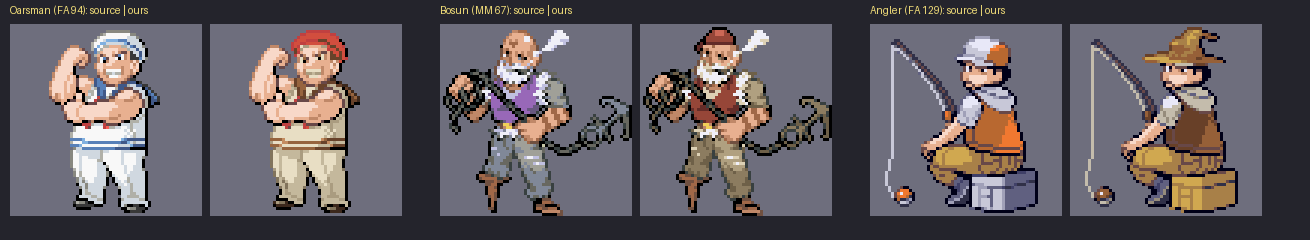
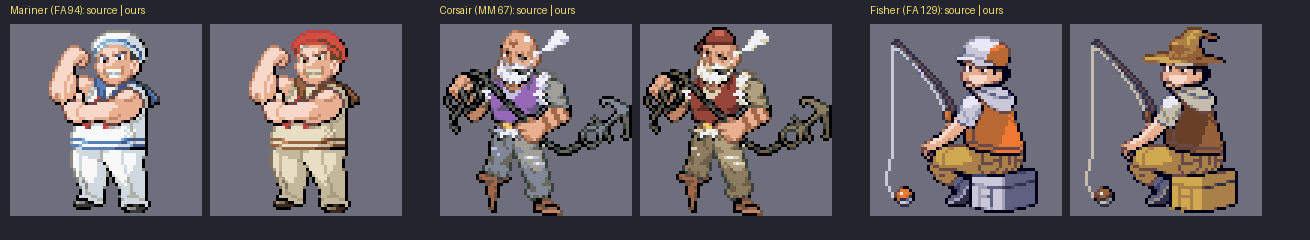
Male Templar in the game; seafolk named Mariner, Corsair, Fisher
The male Templar front and overworld added (gfx 289, pal tag 0x1133, pic
136, Templar class), checked from the ROM and in the emulator on a test
ROM. Notes two build gotchas: maps.o after a NUM_OBJ_EVENT_GFX change, and
new INCBIN graphics linked missing without an error.

Claude-Session: https://claude.ai/code/session_01FHXnfqnedTHLf5QFbB3MCU

Changed region(s): [[0.6412, 0.0292, 0.7634, 0.0583], [0.3359, 0.0292, 0.458, 0.0583], [0.0, 0.0292, 0.1221, 0.0583]]

diff --git a/tools/npc/picks/recolour.py b/tools/npc/picks/recolour.py
@@ -51,13 +51,13 @@ EDITS = {
         12: (80, 40, 80)}),
     'FA_0': ('Adventurer', 'the vest and hose red, the sleeves beige linen, the boots dark brown leather, the neckerchief beige; the feather red', {
         5: (200, 76, 64), 6: (150, 50, 46), 9: (236, 222, 190), 10: (196, 176, 140), 11: (96, 64, 40), 4: (64, 44, 30)}),
-    'FA_94': ('Oarsman', 'a red knitted cap, a linen shirt and slops, the sailor collar a leather jerkin\'s neck and shoulder, the shirt\'s bands a leather belt, the red neckerchief kept', {
+    'FA_94': ('Mariner', 'a red knitted cap, a linen shirt and slops, the sailor collar a leather jerkin\'s neck and shoulder, the shirt\'s bands a leather belt, the red neckerchief kept', {
         14: (232, 222, 196), 9: (196, 184, 156), 5: (170, 156, 128), 10: (130, 116, 92), 11: (196, 140, 96),
         6: (150, 100, 62), 7: (104, 66, 42), 8: (60, 40, 28), 12: (210, 78, 62)}),
-    'MM_67': ('Bosun', 'an oxblood leather vest and a knotted headscarf to match, weathered sailcloth shirt and trousers; the iron chain, anchor, peg leg and pipe kept', {
+    'MM_67': ('Corsair', 'an oxblood leather vest and a knotted headscarf to match, weathered sailcloth shirt and trousers; the iron chain, anchor, peg leg and pipe kept', {
         8: (150, 70, 56), 14: (100, 44, 40), 9: (220, 208, 180), 4: (206, 192, 160), 7: (176, 160, 128),
         2: (140, 124, 96), 3: (110, 96, 72), 4: (204, 104, 86)}),
-    'FA_129': ('Angler', 'a tan felt cap with a leather brim, a leather jerkin, a hood of undyed wool, a wooden crate for a seat', {
+    'FA_129': ('Fisher', 'a tan felt cap with a leather brim, a leather jerkin, a hood of undyed wool, a wooden crate for a seat', {
         12: (150, 96, 56), 13: (104, 64, 40), 9: (196, 188, 172), 10: (150, 140, 124)}),
     'FA_196': ('Revenant', 'a ghost of Hollow Hill: spectral blue; a skull face, rotted hair, the coat in rags', {
         1: (196, 232, 238), 2: (156, 204, 218), 3: (124, 178, 198), 4: (96, 150, 174), 5: (72, 112, 140),
@@ -188,7 +188,7 @@ def remap(idx, box, mapping):
 
 
 def angler_hat(idx):
-    """The Angler's pointed hat (user 2026-11-25: "The fisherman just needs more of a pointed style witch hat"): the
+    """The Fisher's pointed hat (user 2026-11-25: "The fisherman just needs more of a pointed style witch hat"): the
     hat of Fantasma 14 (the witch; her head is his width), its crown shortened by four rows from its straight middle
     (rows 8-11) so its crooked tip stays in the frame, set five pixels right on his head with its brim on his old
     cap's line (row 12); its purples onto his own tan and leather browns by brightness (a felt hat to match his
@@ -215,7 +215,7 @@ def angler_hat(idx):
 
 
 def bosun_scarf(idx):
-    """The Bosun's knotted headscarf (user 2026-11-25: "adjusted designs to make them seem more appropriate for an
+    """The Corsair's knotted headscarf (user 2026-11-25: "adjusted designs to make them seem more appropriate for an
     empire era setting"), over his bald crown (rows 1-6) in the vest's oxblood (slots 8, 14, its light and dark), a
     highlight in slot 4 (its one pixel merged into 9, a near twin), outlined in black (6), the knot and two short
     tails at the back of his head (left). His brows, beard and pipe smoke (from x 34) untouched."""
@@ -242,7 +242,7 @@ def bosun_scarf(idx):
 def sea_redress(name, idx):
     """The three seafolk (user 2026-11-25: "make them proper medieval era clothed"; new, less modern names)."""
     idx = idx.copy()
-    if name == 'FA_94':      # the Oarsman: the sailor cap (and its ribbon tails behind his head) a red knitted cap
+    if name == 'FA_94':      # the Mariner: the sailor cap (and its ribbon tails behind his head) a red knitted cap
         SKIN = (1, 2, 3, 4, 15)
         cap = [(x, y) for y in range(2, 7) for x in range(26, 47)]
         cap += [(x, y) for y in range(7, 14) for x in range(39, 47)]
@@ -251,7 +251,7 @@ def sea_redress(name, idx):
             v = idx[y, x]
             if v and v not in SKIN:
                 idx[y, x] = {14: 12, 9: 12, 5: 13, 10: 13, 11: 13}.get(int(v), 7)
-    if name == 'FA_129':     # the Angler: a pointed hat; the cooler (from row 44, right) a wooden crate
+    if name == 'FA_129':     # the Fisher: a pointed hat; the cooler (from row 44, right) a wooden crate
         idx = angler_hat(idx)
         remap(idx, (33, 44, 63, 63), {14: 7, 9: 7, 10: 8, 6: 8, 5: 4})
     return idx

diff --git a/tools/playtest/templar_blue_check.py b/tools/playtest/templar_blue_check.py
@@ -1,14 +1,21 @@
 """The Templar's overworld in the Order's blue, seen in the game (2026-11-25): from Pelluca's west gate (save state
 r11/pelluca_west.state) to the north road guard at (38, 3); matches her frames on screen against the PNG.
-Usage: python3 tools/playtest/templar_blue_check.py [OUT.png]"""
+Also used for the male Templar (on a test ROM where the east road guard at (74, 25) wears OBJ_EVENT_GFX_TEMPLAR_MALE):
+  python3 tools/playtest/templar_blue_check.py OUT.png --rom TEST.gba --png people/templar_male.png --east --reload
+Usage: python3 tools/playtest/templar_blue_check.py [OUT.png] [--rom ROM] [--png people/NAME.png] [--east]"""
 import sys, gzip
 import numpy as np
 sys.path.insert(0, '/home/claude/scratch/dorm')
 from walklib import GBA, go, where
 from PIL import Image
-OUT = sys.argv[1] if len(sys.argv) > 1 else '/home/claude/scratch/templar_blue_check.png'
+args = sys.argv[1:]
+def opt(k, d):
+    return args[args.index(k) + 1] if k in args else d
+OUT = args[0] if args and not args[0].startswith('--') else '/home/claude/scratch/templar_blue_check.png'
 CB = '/home/claude/repo/codebase/'
-im = Image.open(CB + 'graphics/object_events/pics/people/templar.png')
+ROMF = opt('--rom', CB + 'pokeemerald.gba')
+im = Image.open(CB + 'graphics/object_events/pics/' + opt('--png', 'people/templar.png'))
+TARGETS = ((73, 25), (72, 25), (74, 27), (74, 26)) if '--east' in args else ((38, 6), (38, 7), (37, 6))
 IDX = np.array(im); PAL = np.array(im.getpalette()[:48]).reshape(16, 3).astype(int) // 8 * 8
 
 
@@ -26,11 +33,26 @@ def match(f):
     return best
 
 
-g = GBA(CB + 'pokeemerald.gba')
+g = GBA(ROMF)
 g.restore(gzip.decompress(open('/home/claude/scratch/r11/pelluca_west.state', 'rb').read())); g.run(20)
+def step(d, wait=16): g.run(12, d); g.run(wait)
+if '--reload' in args:
+    # the state stands inside Pelluca City, its objects already loaded: down the main stair to the harbour and back
+    # up (as the harbour walk), so the city's objects are read from this ROM
+    for _ in range(4): g.walk('RIGHT', 1); g.run(10)
+    for _ in range(4):
+        if go(g, 'PellucaCity', (38, 33), log=lambda *a: None): break
+        for _ in range(40): g.run(6, 'B'); g.run(10)
+    step('DOWN'); step('DOWN'); step('DOWN', 4); g.run(240)
+    print('down to', where(g))
+    for _ in range(4):
+        if go(g, 'PellucaHarbour', (38, 9), log=lambda *a: None): break
+        for _ in range(40): g.run(6, 'B'); g.run(10)
+    step('UP'); step('UP'); step('UP', 4); g.run(240)
+    print('back up to', where(g))
 for _ in range(4): g.walk('RIGHT', 1); g.run(10)
 ok = False
-for tgt in ((38, 6), (38, 7), (37, 6)):
+for tgt in TARGETS:
     for _ in range(4):
         if go(g, 'PellucaCity', tgt, log=lambda *a: None):
             ok = True; break
@@ -39,7 +61,7 @@ for tgt in ((38, 6), (38, 7), (37, 6)):
 g.run(30)
 f = g.frame()
 b = match(f)
-print('walked near the north road guard:', ok, where(g))
+print('walked near the road guard:', ok, where(g))
 print('Templar on screen: frame %d at (%d, %d), %d of %d pixels differ' % (b[3], b[1], b[2], b[0], b[4]))
 print('ALL OK' if ok and b[0] == 0 else 'PROBLEM')
 x, y = b[1], b[2]

diff --git a/tools/npc/templar/male/male.py b/tools/npc/templar/male/male.py
@@ -98,14 +98,35 @@ def quant15(a):
         a[sel, :3] = cols[dst]
 
 
+def to_indexed(a, path):
+    """RGBA (at most 15 opaque colours) -> a 16-colour indexed PNG, index 0 transparent (the house format)."""
+    m = a[..., 3] > 0
+    cols = [tuple(int(v) for v in c) for c in np.unique(a[m][:, :3], axis=0)]
+    assert len(cols) <= 15, len(cols)
+    cols.sort(key=lum, reverse=True)
+    idx = np.zeros(a.shape[:2], np.uint8)
+    for k, c in enumerate(cols, 1):
+        idx[m & (a[..., :3] == c).all(-1)] = k
+    pal = [(0, 0, 0)] + cols + [(0, 0, 0)] * (15 - len(cols))
+    im = Image.fromarray(idx, 'P')
+    im.putpalette([v for c in pal for v in c] + [0] * (768 - 48))
+    im.save(path, transparency=0)
+
+
 if __name__ == '__main__':
     os.makedirs(os.path.join(HERE, 'out'), exist_ok=True)
     f = np.array(Image.open(os.path.join(HERE, 'src_front.png')).convert('RGBA'))
     o = np.array(Image.open(os.path.join(HERE, 'src_ow.png')).convert('RGBA'))
     f2 = quant15(fit64(recolour_front(f)))
-    o2 = ow9(recolour_ow(o), 16, 32)
+    o2 = quant15(ow9(recolour_ow(o), 16, 32))
     Image.fromarray(f2).save(os.path.join(HERE, 'out', 'templar_male_front.png'))
     Image.fromarray(o2).save(os.path.join(HERE, 'out', 'templar_male_ow.png'))
+    CBG = os.path.abspath(os.path.join(HERE, '..', '..', '..', '..', 'codebase', 'graphics'))
+    to_indexed(f2, os.path.join(HERE, 'out', 'templar_male_front_idx.png'))
+    to_indexed(o2, os.path.join(HERE, 'out', 'templar_male_ow_idx.png'))
+    if '--install' in sys.argv:
+        to_indexed(f2, os.path.join(CBG, 'trainers', 'front_pics', 'templar_male.png'))
+        to_indexed(o2, os.path.join(CBG, 'object_events', 'pics', 'people', 'templar_male.png'))
     fem_f = Image.open(os.path.join(HERE, '..', 'out', 'templar_front.png')).convert('RGBA')
     fem_o = Image.open(os.path.join(HERE, '..', 'out', 'templar_ow.png')).convert('RGBA')
 

diff --git a/codebase/src/data/graphics/trainers.h b/codebase/src/data/graphics/trainers.h
@@ -416,6 +416,8 @@ const u32 gTrainerFrontPic_Ambrose[] = INCBIN_U32("graphics/trainers/front_pics/
 const u32 gTrainerPalette_Ambrose[] = INCBIN_U32("graphics/trainers/front_pics/ambrose.gbapal.lz");
 const u32 gTrainerFrontPic_Templar[] = INCBIN_U32("graphics/trainers/front_pics/templar.4bpp.lz");
 const u32 gTrainerPalette_Templar[] = INCBIN_U32("graphics/trainers/front_pics/templar.gbapal.lz");
+const u32 gTrainerFrontPic_TemplarMale[] = INCBIN_U32("graphics/trainers/front_pics/templar_male.4bpp.lz");
+const u32 gTrainerPalette_TemplarMale[] = INCBIN_U32("graphics/trainers/front_pics/templar_male.gbapal.lz");
 
 const u32 gTrainerFrontPic_QwilsquadBoss[] = INCBIN_U32("graphics/trainers/my_trainers/qwilsquad_boss.4bpp.lz");
 const u32 gTrainerPalette_QwilsquadBoss[] = INCBIN_U32("graphics/trainers/my_trainers/qwilsquad_boss.gbapal.lz");
@@ -613,6 +615,7 @@ const struct TrainerSprite gTrainerSprites[] =
     TRAINER_SPRITE(TRAINER_PIC_KIMARIS, gTrainerFrontPic_Kimaris, gTrainerPalette_Kimaris),
     TRAINER_SPRITE(TRAINER_PIC_AMBROSE, gTrainerFrontPic_Ambrose, gTrainerPalette_Ambrose),
     TRAINER_SPRITE(TRAINER_PIC_TEMPLAR, gTrainerFrontPic_Templar, gTrainerPalette_Templar),
+    TRAINER_SPRITE(TRAINER_PIC_TEMPLAR_MALE, gTrainerFrontPic_TemplarMale, gTrainerPalette_TemplarMale),
 };
 
 static const union AnimCmd sAnimCmd_Hoenn[] =

diff --git a/codebase/src/data/object_events/object_event_graphics_info_pointers.h b/codebase/src/data/object_events/object_event_graphics_info_pointers.h
@@ -24,6 +24,7 @@ extern const struct ObjectEventGraphicsInfo gObjectEventGraphicsInfo_Baradus;
 extern const struct ObjectEventGraphicsInfo gObjectEventGraphicsInfo_Kimaris;
 extern const struct ObjectEventGraphicsInfo gObjectEventGraphicsInfo_Ambrose;
 extern const struct ObjectEventGraphicsInfo gObjectEventGraphicsInfo_Templar;
+extern const struct ObjectEventGraphicsInfo gObjectEventGraphicsInfo_TemplarMale;
 extern const struct ObjectEventGraphicsInfo gObjectEventGraphicsInfo_DrShrine;
 extern const struct ObjectEventGraphicsInfo gObjectEventGraphicsInfo_PaleVeluza;
 extern const struct ObjectEventGraphicsInfo gObjectEventGraphicsInfo_Merchantman;
@@ -330,6 +331,7 @@ const struct ObjectEventGraphicsInfo *const gObjectEventGraphicsInfoPointers[NUM
     [OBJ_EVENT_GFX_KIMARIS] = &gObjectEventGraphicsInfo_Kimaris,
     [OBJ_EVENT_GFX_AMBROSE] = &gObjectEventGraphicsInfo_Ambrose,
     [OBJ_EVENT_GFX_TEMPLAR] = &gObjectEventGraphicsInfo_Templar,
+    [OBJ_EVENT_GFX_TEMPLAR_MALE] = &gObjectEventGraphicsInfo_TemplarMale,
     [OBJ_EVENT_GFX_DR_SHRINE] = &gObjectEventGraphicsInfo_DrShrine,
     [OBJ_EVENT_GFX_PALE_VELUZA] = &gObjectEventGraphicsInfo_PaleVeluza,
     [OBJ_EVENT_GFX_MERCHANTMAN] = &gObjectEventGraphicsInfo_Merchantman,

diff --git a/codebase/src/data/object_events/object_event_graphics.h b/codebase/src/data/object_events/object_event_graphics.h
@@ -492,6 +492,8 @@ const u32 gObjectEventPic_Ambrose[] = INCBIN_U32("graphics/object_events/pics/pe
 const u16 gObjectEventPal_Ambrose[] = INCBIN_U16("graphics/object_events/pics/people/ambrose.gbapal");
 const u32 gObjectEventPic_Templar[] = INCBIN_U32("graphics/object_events/pics/people/templar.4bpp");
 const u16 gObjectEventPal_Templar[] = INCBIN_U16("graphics/object_events/pics/people/templar.gbapal");
+const u32 gObjectEventPic_TemplarMale[] = INCBIN_U32("graphics/object_events/pics/people/templar_male.4bpp");
+const u16 gObjectEventPal_TemplarMale[] = INCBIN_U16("graphics/object_events/pics/people/templar_male.gbapal");
 const u32 gObjectEventPic_DrShrine[] = INCBIN_U32("graphics/object_events/pics/misc/dr_shrine.4bpp");
 const u16 gObjectEventPal_DrShrine[] = INCBIN_U16("graphics/object_events/pics/misc/dr_shrine.gbapal");
 const u32 gObjectEventPic_PaleVeluza[] = INCBIN_U32("graphics/object_events/pics/misc/dr_pale_veluza.4bpp");

diff --git a/codebase/src/data/object_events/object_event_pic_tables.h b/codebase/src/data/object_events/object_event_pic_tables.h
@@ -1380,6 +1380,7 @@ static const struct SpriteFrameImage sPicTable_Baradus[] = { overworld_ascending
 static const struct SpriteFrameImage sPicTable_Kimaris[] = { overworld_ascending_frames(gObjectEventPic_Kimaris, 2, 4), };
 static const struct SpriteFrameImage sPicTable_Ambrose[] = { overworld_ascending_frames(gObjectEventPic_Ambrose, 2, 4), };
 static const struct SpriteFrameImage sPicTable_Templar[] = { overworld_ascending_frames(gObjectEventPic_Templar, 2, 4), };
+static const struct SpriteFrameImage sPicTable_TemplarMale[] = { overworld_ascending_frames(gObjectEventPic_TemplarMale, 2, 4), };
 static const struct SpriteFrameImage sPicTable_DrShrine[] = { obj_frame_tiles(gObjectEventPic_DrShrine), };
 static const struct SpriteFrameImage sPicTable_PaleVeluza[] = { obj_frame_tiles(gObjectEventPic_PaleVeluza), };
 static const struct SpriteFrameImage sPicTable_Merchantman[] = { obj_frame_tiles(gObjectEventPic_Merchantman), };

diff --git a/codebase/src/data/object_events/object_event_graphics_info.h b/codebase/src/data/object_events/object_event_graphics_info.h
@@ -455,6 +455,25 @@ const struct ObjectEventGraphicsInfo gObjectEventGraphicsInfo_Templar = {
     .affineAnims = gDummySpriteAffineAnimTable,
 };
 
+const struct ObjectEventGraphicsInfo gObjectEventGraphicsInfo_TemplarMale = {
+    .tileTag = TAG_NONE,
+    .paletteTag = OBJ_EVENT_PAL_TAG_TEMPLAR_MALE,
+    .reflectionPaletteTag = OBJ_EVENT_PAL_TAG_NONE,
+    .size = 256,
+    .width = 16,
+    .height = 32,
+    .paletteSlot = PALSLOT_NPC_1,
+    .shadowSize = SHADOW_SIZE_M,
+    .inanimate = FALSE,
+    .compressed = FALSE,
+    .tracks = TRACKS_FOOT,
+    .oam = &gObjectEventBaseOam_16x32,
+    .subspriteTables = sOamTables_16x32,
+    .anims = sAnimTable_Standard,
+    .images = sPicTable_TemplarMale,
+    .affineAnims = gDummySpriteAffineAnimTable,
+};
+
 const struct ObjectEventGraphicsInfo gObjectEventGraphicsInfo_DrShrine = {
     .tileTag = TAG_NONE,
     .paletteTag = OBJ_EVENT_PAL_TAG_DR_SHRINE,

diff --git a/codebase/include/constants/event_objects.h b/codebase/include/constants/event_objects.h
@@ -304,8 +304,9 @@
 #define OBJ_EVENT_GFX_MERCHANTMAN                  286
 #define OBJ_EVENT_GFX_FISHING_SLOOP                287
 #define OBJ_EVENT_GFX_WOODEN_ROWBOAT               288
+#define OBJ_EVENT_GFX_TEMPLAR_MALE                 289
 
-#define NUM_OBJ_EVENT_GFX                          289
+#define NUM_OBJ_EVENT_GFX                          290
 
 
 // These are dynamic object gfx ids.
@@ -454,6 +455,7 @@
 #define OBJ_EVENT_PAL_TAG_DR_SHRINE             0x1130
 #define OBJ_EVENT_PAL_TAG_DR_SHIPS              0x1131
 #define OBJ_EVENT_PAL_TAG_DR_BOATS              0x1132
+#define OBJ_EVENT_PAL_TAG_TEMPLAR_MALE          0x1133
 #define OBJ_EVENT_PAL_TAG_SHUBUBU                 0x1125
 #define OBJ_EVENT_PAL_TAG_GUBUKING                0x1126
 #define OBJ_EVENT_PAL_TAG_DYNAMIC                 0x1127

diff --git a/codebase/src/event_object_movement.c b/codebase/src/event_object_movement.c
@@ -523,6 +523,7 @@ static const struct SpritePalette sObjectEventSpritePalettes[] = {
     {gObjectEventPal_Kimaris, OBJ_EVENT_PAL_TAG_KIMARIS},
     {gObjectEventPal_Ambrose, OBJ_EVENT_PAL_TAG_AMBROSE},
     {gObjectEventPal_Templar, OBJ_EVENT_PAL_TAG_TEMPLAR},
+    {gObjectEventPal_TemplarMale, OBJ_EVENT_PAL_TAG_TEMPLAR_MALE},
     {gObjectEventPal_DrShrine, OBJ_EVENT_PAL_TAG_DR_SHRINE},
     {gObjectEventPal_DrShips, OBJ_EVENT_PAL_TAG_DR_SHIPS},
     {gObjectEventPal_DrBoats, OBJ_EVENT_PAL_TAG_DR_BOATS},

diff --git a/codebase/include/constants/trainers.h b/codebase/include/constants/trainers.h
@@ -159,7 +159,8 @@
 #define TRAINER_PIC_KIMARIS               133
 #define TRAINER_PIC_AMBROSE               134
 #define TRAINER_PIC_TEMPLAR               135
-#define TRAINER_PIC_COUNT                 136
+#define TRAINER_PIC_TEMPLAR_MALE          136
+#define TRAINER_PIC_COUNT                 137
 
 // The player back pics are assumed to alternate according to the gender values (MALE/FEMALE)
 #define TRAINER_BACK_PIC_BRENDAN                0

diff --git a/docs/chapter1_workflow.md b/docs/chapter1_workflow.md
@@ -319,3 +319,20 @@ Once the next few phases of Chapter 1 are further along, the user wants **anothe
   her head his width) with four rows cut from its straight crown so the crooked tip fits the frame, five pixels right
   on his head, brim on his old cap's line, its purples onto his tan and leather browns (a felt hat to match his
   leather jerkin, once an orange vest), his hood undyed wool, the cooler a wooden crate, the bobber cork-brown.
+- **Seafolk names decided (user 2026-11-25): "the fisherman class should just be called Fisher, and the guy with the
+  anchor's class is Corsair, and the sailor should be called a Mariner"** (replacing the proposed Angler, Bosun,
+  Oarsman).
+- **The male Templar installed (2026-11-25)**: `graphics/trainers/front_pics/templar_male.png`,
+  `graphics/object_events/pics/people/templar_male.png` (from `tools/npc/templar/male/male.py --install`), wired as
+  the female was: `OBJ_EVENT_GFX_TEMPLAR_MALE` 289 (`NUM_OBJ_EVENT_GFX` 290), `OBJ_EVENT_PAL_TAG_TEMPLAR_MALE` 0x1133,
+  `TRAINER_PIC_TEMPLAR_MALE` 136 (`TRAINER_PIC_COUNT` 137), under `TRAINER_CLASS_TEMPLAR`. Checked from the built
+  ROM (front and overworld, pixels and palettes match) and **in the emulator** on a test ROM (Pelluca's east road
+  guard in his graphics; 0 of 204 pixels differ; `assets/npc_survey/ingame_templar_male.png`); the save-state chain
+  regenerated (all walks pass). **Two build gotchas found:** (1) changing `NUM_OBJ_EVENT_GFX` shifts the dynamic
+  graphics ids the maps use, and `make` does not rebuild `maps.o` for it: `rm -f build/modern/data/maps.o` (as after
+  a `map.bin` patch); (2) **a new INCBIN'd graphic can be linked missing without an error** (the .o's dependency scan
+  predates the new line, so the .4bpp is never built): after adding graphics, remove the including file's .o (here
+  `event_object_movement.o`) and **always read the graphics back from the ROM** (`tools/npc/sword_cult/check_rom.py`'s
+  decoders) before trusting a build. And a playtest note: a save state taken inside a map has that map's objects
+  already loaded; to see a test ROM's object changes, leave the map and come back (`templar_blue_check.py --reload`:
+  down the harbour stair and back up).
